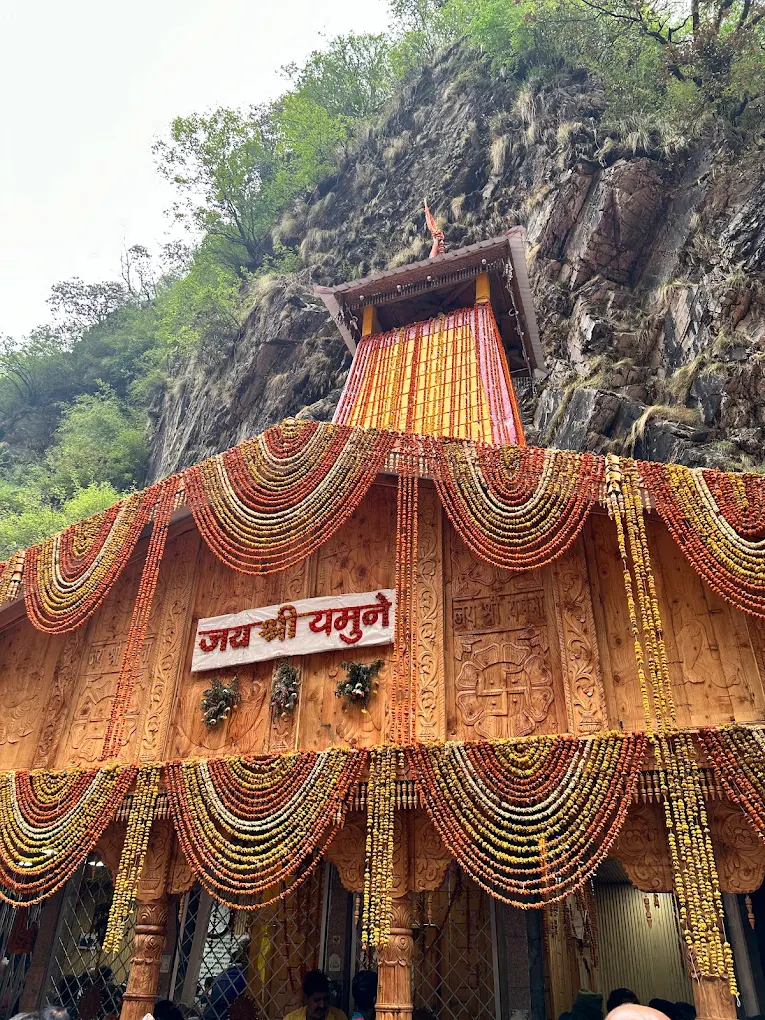
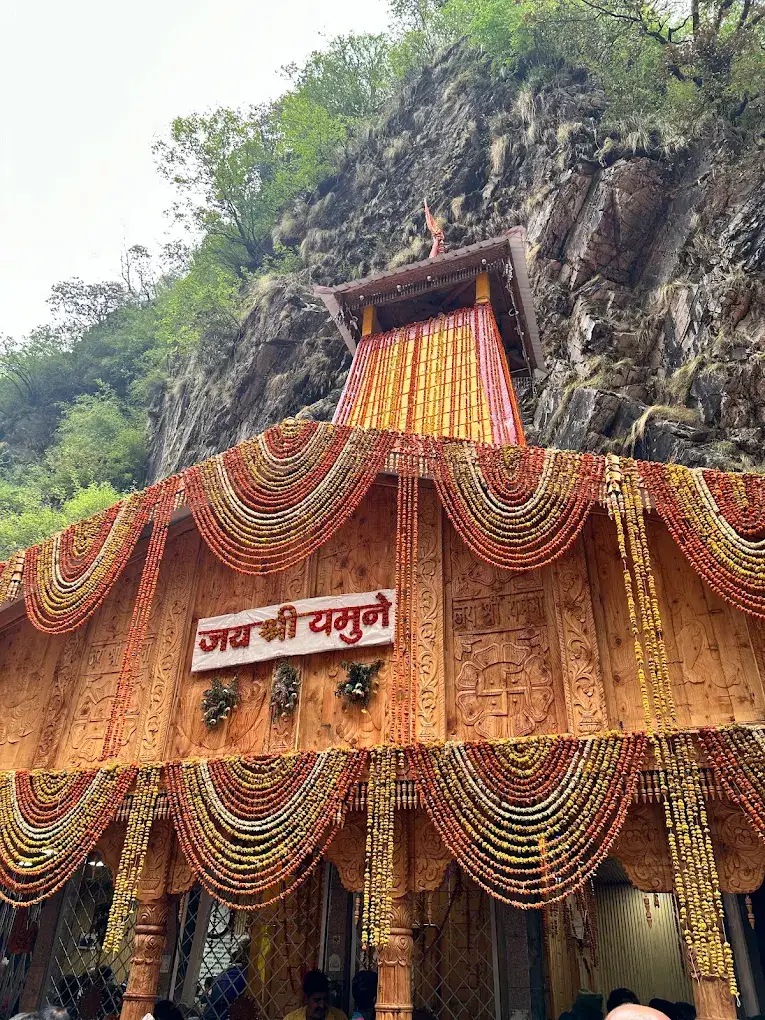
Convert image temple folder images to webp and reduce quality to 65

diff --git a/frontend/src/constants/templeImages.ts b/frontend/src/constants/templeImages.ts
@@ -2,46 +2,46 @@ import { ImageSourcePropType } from 'react-native';
 
 const TEMPLE_IMAGES: Record<string, ImageSourcePropType> = {
   // Jyotirlingas
-  'jyotirling-somnath-temple-gujarat': require('../../assets/images/image temple/SomnathTemple.jpg'),
-  'jyotirling-kedarnath-temple-uttarakhand': require('../../assets/images/image temple/KedarnathTemple.jpg'),
+  'jyotirling-somnath-temple-gujarat': require('../../assets/images/image temple/SomnathTemple.webp'),
+  'jyotirling-kedarnath-temple-uttarakhand': require('../../assets/images/image temple/KedarnathTemple.webp'),
   'jyotirling-mahakaleshwar-temple-ujjain': require('../../assets/images/image temple/MahakalTemple.webp'),
-  'jyotirling-kashi-vishwanath-temple-varanasi': require('../../assets/images/image temple/Kashi_Vishwanath.jpg'),
-  'jyotirling-bhimashankar-temple-maharashtra': require('../../assets/images/image temple/Mamleshwar.jpg'),
+  'jyotirling-kashi-vishwanath-temple-varanasi': require('../../assets/images/image temple/Kashi_Vishwanath.webp'),
+  'jyotirling-bhimashankar-temple-maharashtra': require('../../assets/images/image temple/Mamleshwar.webp'),
   'jyotirling-ramanathaswamy-temple-rameswaram': require('../../assets/images/image temple/Ramanathaswamy-temple.webp'),
   'jyotirling-grishneshwar-temple-maharashtra': require('../../assets/images/image temple/Grishneshwar.webp'),
   'jyotirling-grishneshwar-temple-ellora': require('../../assets/images/image temple/Grishneshwar.webp'),
-  'jyotirling-omkareshwar-temple-madhya-pradesh': require('../../assets/images/image temple/Okareshwar.jpeg'),
-  'jyotirling-trimbakeshwar-temple-maharashtra': require('../../assets/images/image temple/TrimbakehwarTemple.jpg'),
-  'jyotirling-trimbakeshwar-temple-nashik': require('../../assets/images/image temple/TrimbakehwarTemple.jpg'),
+  'jyotirling-omkareshwar-temple-madhya-pradesh': require('../../assets/images/image temple/Okareshwar.webp'),
+  'jyotirling-trimbakeshwar-temple-maharashtra': require('../../assets/images/image temple/TrimbakehwarTemple.webp'),
+  'jyotirling-trimbakeshwar-temple-nashik': require('../../assets/images/image temple/TrimbakehwarTemple.webp'),
   'jyotirling-nageshwar-temple-gujarat': require('../../assets/images/image temple/Nageshwar.webp'),
   'jyotirling-nageshwar-temple-dwarka': require('../../assets/images/image temple/Nageshwar.webp'),
-  'jyotirling-mallikarjuna-temple-andhra-pradesh': require('../../assets/images/image temple/Mallikarjuna.jpg'),
-  'jyotirling-mallikarjuna-temple-srisailam': require('../../assets/images/image temple/Mallikarjuna.jpg'),
+  'jyotirling-mallikarjuna-temple-andhra-pradesh': require('../../assets/images/image temple/Mallikarjuna.webp'),
+  'jyotirling-mallikarjuna-temple-srisailam': require('../../assets/images/image temple/Mallikarjuna.webp'),
   'jyotirling-baidyanath-temple-jharkhand': require('../../assets/images/image temple/Baidyanath.webp'),
   'jyotirling-baidyanath-temple-deoghar': require('../../assets/images/image temple/Baidyanath.webp'),
   
   // Sacred / Others & Char Dham
-  'other-tirupati-balaji-temple-andhra-pradesh': require('../../assets/images/image temple/Tirumala_090615.jpg'),
+  'other-tirupati-balaji-temple-andhra-pradesh': require('../../assets/images/image temple/Tirumala_090615.webp'),
   'other-vaishno-devi-temple-jammu-kashmir': require('../../assets/images/image temple/VaishnoDeviTemple.webp'),
-  'other-siddhivinayak-temple-mumbai': require('../../assets/images/image temple/Siddhivinayak.jpg'),
-  'other-shree-siddhivinayak-temple': require('../../assets/images/image temple/Siddhivinayak.jpg'),
-  'other-shirdi-sai-baba-temple-maharashtra': require('../../assets/images/image temple/Sai_Baba.jpg'),
-  'other-jagannath-temple-puri': require('../../assets/images/image temple/Jaganath.jpg'),
-  'chardham-jagannath-temple-puri': require('../../assets/images/image temple/Jaganath.jpg'),
+  'other-siddhivinayak-temple-mumbai': require('../../assets/images/image temple/Siddhivinayak.webp'),
+  'other-shree-siddhivinayak-temple': require('../../assets/images/image temple/Siddhivinayak.webp'),
+  'other-shirdi-sai-baba-temple-maharashtra': require('../../assets/images/image temple/Sai_Baba.webp'),
+  'other-jagannath-temple-puri': require('../../assets/images/image temple/Jaganath.webp'),
+  'chardham-jagannath-temple-puri': require('../../assets/images/image temple/Jaganath.webp'),
   'chardham-badrinath-temple-uttarakhand': require('../../assets/images/image temple/badrinath.webp'),
-  'chardham-gangotri-temple-uttarakhand': require('../../assets/images/image temple/gangotri.jpg'),
+  'chardham-gangotri-temple-uttarakhand': require('../../assets/images/image temple/gangotri.webp'),
   'chardham-yamunotri-temple-uttarakhand': require('../../assets/images/image temple/yamunotritemple.webp'),
-  'chardham-dwarkadhish-temple-dwarka': require('../../assets/images/dwarakadhish.jpg'),
-  'other-golden-temple-amritsar': require('../../assets/images/image temple/GoldenTemple.jpg'),
-  'other-meenakshi-temple-madurai': require('../../assets/images/image temple/MeenakshiTemple.jpg'),
-  'other-iskcon-temple-bangalore-karnataka': require('../../assets/images/image temple/ISKCON_Bangalore.jpg'),
-  'other-iskcon-bangalore-aarti': require('../../assets/images/image temple/ISKCON_Bangalore.jpg'),
-  'other-iskcon-mira-road-thane': require('../../assets/images/image temple/ISKCON_Mira_Road.jpg'),
-  'other-iskcon-temple-mumbai': require('../../assets/images/image temple/ISKCON_Juhu.jpg'),
-  'other-iskcon-juhu': require('../../assets/images/image temple/ISKCON_Juhu.jpg'),
-  'other-iskcon-temple-mumbai-juhu': require('../../assets/images/image temple/ISKCON_Juhu.jpg'),
+  'chardham-dwarkadhish-temple-dwarka': require('../../assets/images/dwarakadhish.webp'),
+  'other-golden-temple-amritsar': require('../../assets/images/image temple/GoldenTemple.webp'),
+  'other-meenakshi-temple-madurai': require('../../assets/images/image temple/MeenakshiTemple.webp'),
+  'other-iskcon-temple-bangalore-karnataka': require('../../assets/images/image temple/ISKCON_Bangalore.webp'),
+  'other-iskcon-bangalore-aarti': require('../../assets/images/image temple/ISKCON_Bangalore.webp'),
+  'other-iskcon-mira-road-thane': require('../../assets/images/image temple/ISKCON_Mira_Road.webp'),
+  'other-iskcon-temple-mumbai': require('../../assets/images/image temple/ISKCON_Juhu.webp'),
+  'other-iskcon-juhu': require('../../assets/images/image temple/ISKCON_Juhu.webp'),
+  'other-iskcon-temple-mumbai-juhu': require('../../assets/images/image temple/ISKCON_Juhu.webp'),
   'other-mahalaxmi-temple': require('../../assets/images/shaktipeeth/mahalaxmi.webp'),
-  'other-shri-dwarkadhish-temple-dwarka': require('../../assets/images/dwarakadhish.jpg'),
+  'other-shri-dwarkadhish-temple-dwarka': require('../../assets/images/dwarakadhish.webp'),
 
   // Shakti Peethas (from assets/images/shaktipeeth)
   'shaktipeeth-kamakhya-temple-guwahati': require('../../assets/images/shaktipeeth/kamakhya.webp'),
@@ -105,7 +105,7 @@ const TEMPLE_IMAGES: Record<string, ImageSourcePropType> = {
   'healing-mangaladevi-temple-mangalore': require('../../assets/images/healingtemple/Mangaladevi.webp'),
 };
 
-const DEFAULT_TEMPLE_IMAGE: ImageSourcePropType = require('../../assets/images/image temple/SomnathTemple.jpg');
+const DEFAULT_TEMPLE_IMAGE: ImageSourcePropType = require('../../assets/images/image temple/SomnathTemple.webp');
 
 const normalizeTempleName = (name: string) =>
   String(name || '')
